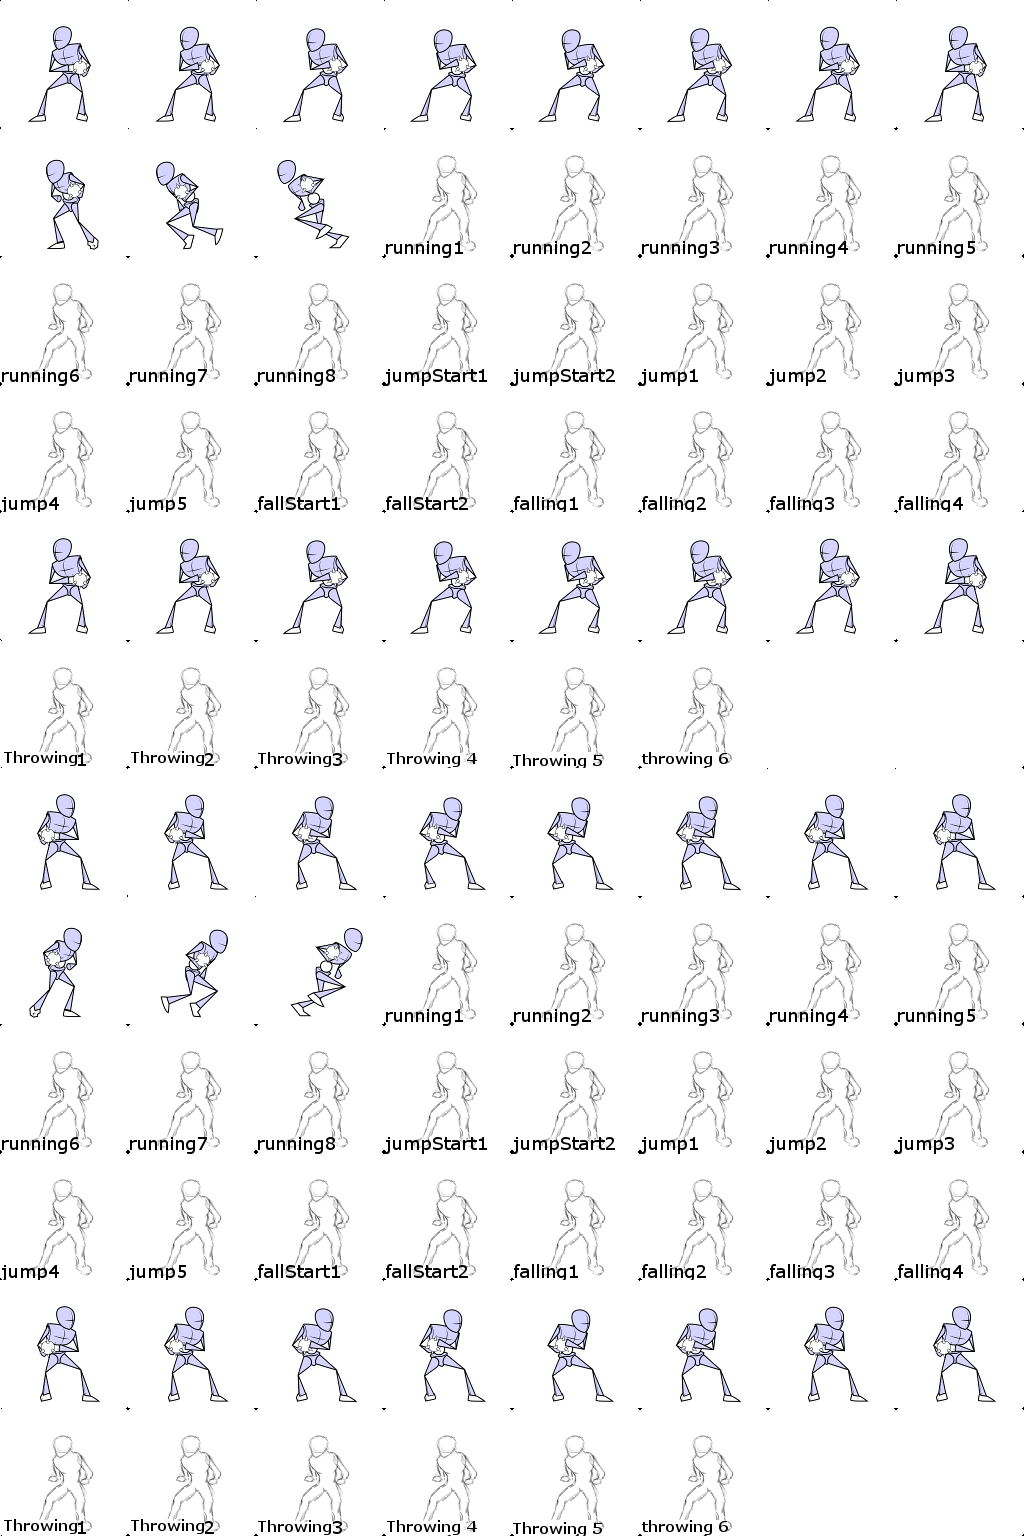
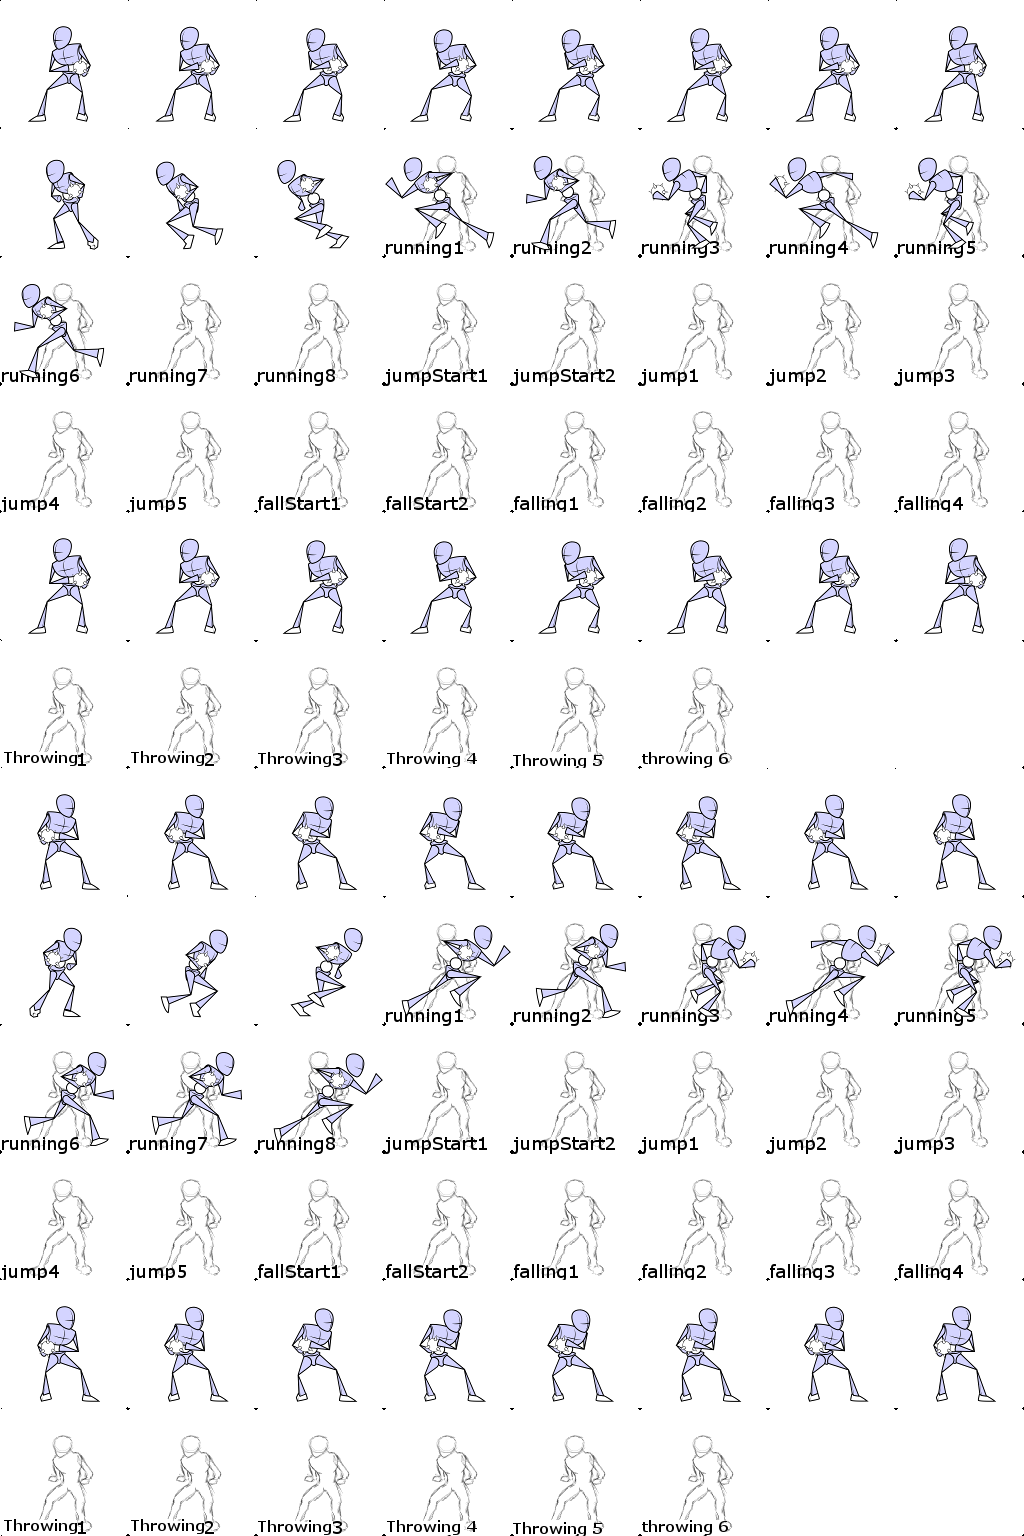
Added Running Frames

diff --git a/main.js b/main.js
@@ -78,7 +78,7 @@ function Player(game)   {
     //Loading Animations
 //// Right Animations ////
     this.LIdleAnimation = new Animation(ASSET_MANAGER.getAsset("./img/player.png"), 0, 0, 128, 128, 0.08, 8, true, false);
-    this.LRunAnimation = new Animation(ASSET_MANAGER.getAsset("./img/player.png"), 384, 128, 128, 128, 0.05, 8, true, false);
+    this.LRunAnimation = new Animation(ASSET_MANAGER.getAsset("./img/player.png"), 384, 128, 128, 128, 0.10, 6, true, false);
     this.LRunStartAnimation = new Animation(ASSET_MANAGER.getAsset("./img/player.png"), 0, 128, 128, 128, 0.05, 3, false, false);
     this.LJumpAnimation = new Animation(ASSET_MANAGER.getAsset("./img/player.png"), 640, 256, 128, 128, 0.1, 5, false, false);
     this.LJumpStartAnimation = new Animation(ASSET_MANAGER.getAsset("./img/player.png"), 384, 256, 128, 128, 0.05, 2, false, false);
@@ -89,7 +89,7 @@ function Player(game)   {
 
     //// Left Animations ////
     this.RIdleAnimation = new Animation(ASSET_MANAGER.getAsset("./img/player.png"), 0, 768, 128, 128, 0.08, 8, true, false);
-    this.RRunAnimation = new Animation(ASSET_MANAGER.getAsset("./img/player.png"), 384, 896, 128, 128, 0.05, 8, true, false);
+    this.RRunAnimation = new Animation(ASSET_MANAGER.getAsset("./img/player.png"), 384, 896, 128, 128, 0.10, 6, true, false);
     this.RRunStartAnimation = new Animation(ASSET_MANAGER.getAsset("./img/player.png"), 0, 896, 128, 128, 0.05, 3, false, false);
     this.RJumpAnimation = new Animation(ASSET_MANAGER.getAsset("./img/player.png"), 640, 1024, 128, 128, 0.1, 5, false, false);
     this.RJumpStartAnimation = new Animation(ASSET_MANAGER.getAsset("./img/player.png"), 384, 1024, 128, 128, 0.05, 2, false, false);
